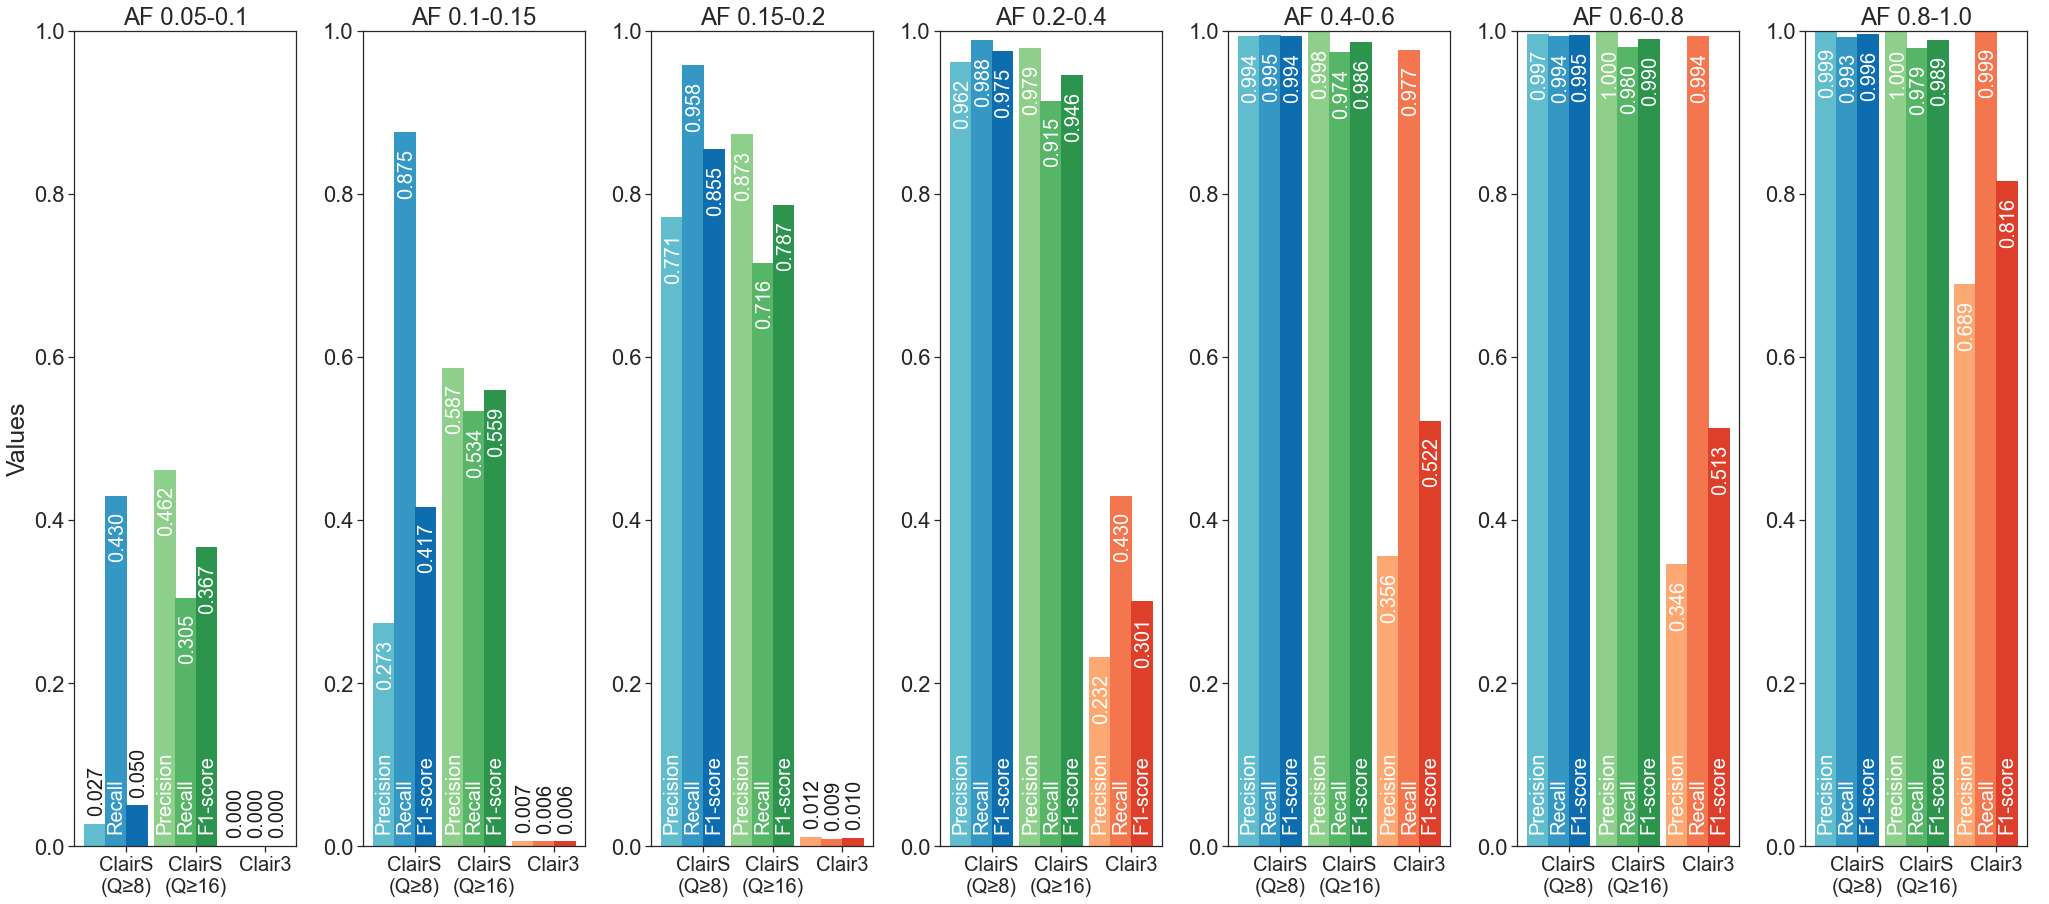
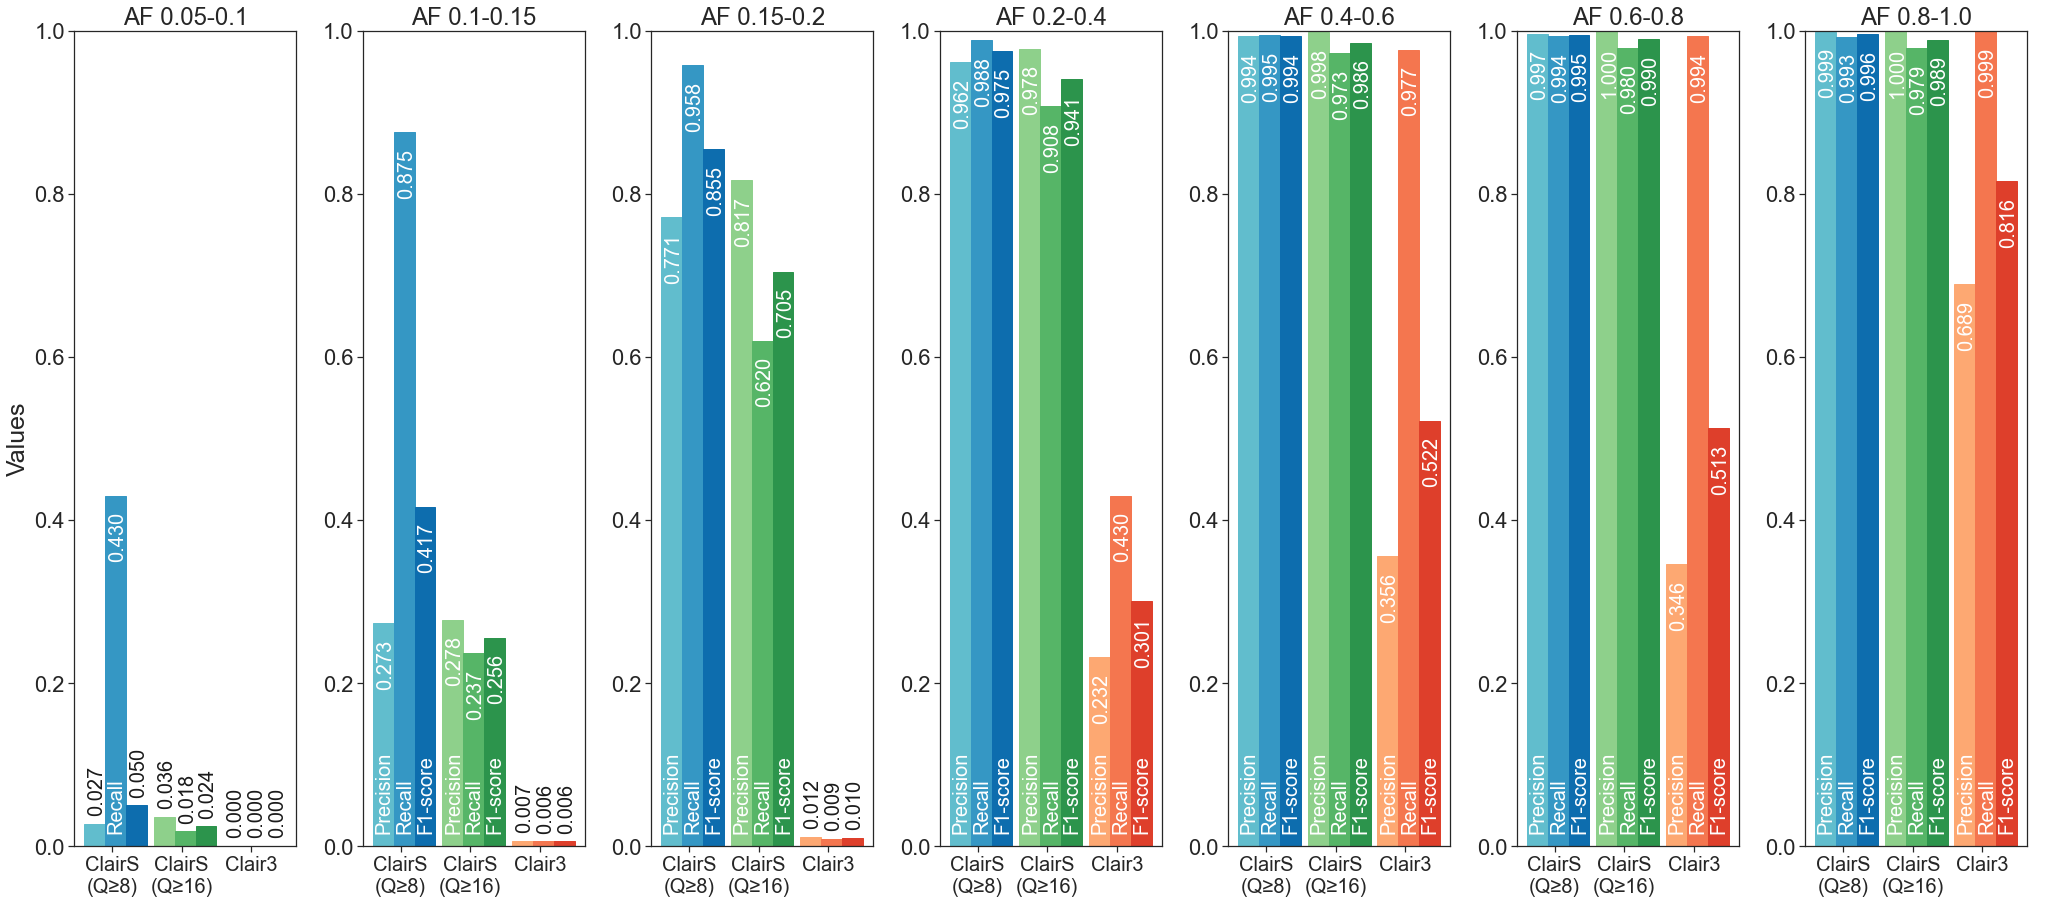
updated benchmark result

diff --git a/README.md b/README.md
@@ -22,10 +22,22 @@ ClairS is now available for early access to interested and experienced users. Yo
 ### Setup
 * 70-fold HCC1395 (tumor) and 45-fold HCC1395BL (normal) of ONT R10.4.1 data.
 * Benchmarking against the truths (Fang et al., 2021)
-### SNV performance
+### ONT Q20+ SNV performance
+
+| Caller | QUAL cutoff | Precision | Recall | F1-score |   TP   |   FP   |  FN   |
+| :----: | :---------: | :-------: | :----: | :------: | :----: | :----: | :---: |
+| ClairS |      8      |  66.00%   | 97.11% |  78.59%  | 30,553 | 15,738 |  909  |
+| ClairS |     16      |  94.26%   | 87.46% |  90.73%  | 27,512 | 1,675  | 3,944 |
+
 <p align="center">
 <img src="./images/ont_result.png" alt="ONT benmarking result" width="1080p"></img>
 </p>
+### Illumina NovaSeq 6000 SNV performance
+
+<p align="center">
+<img src="./images/illumina_result.png" alt="Illumina benmarking result" width="1080p"></img>
+</p>
+
 
 
 ------
